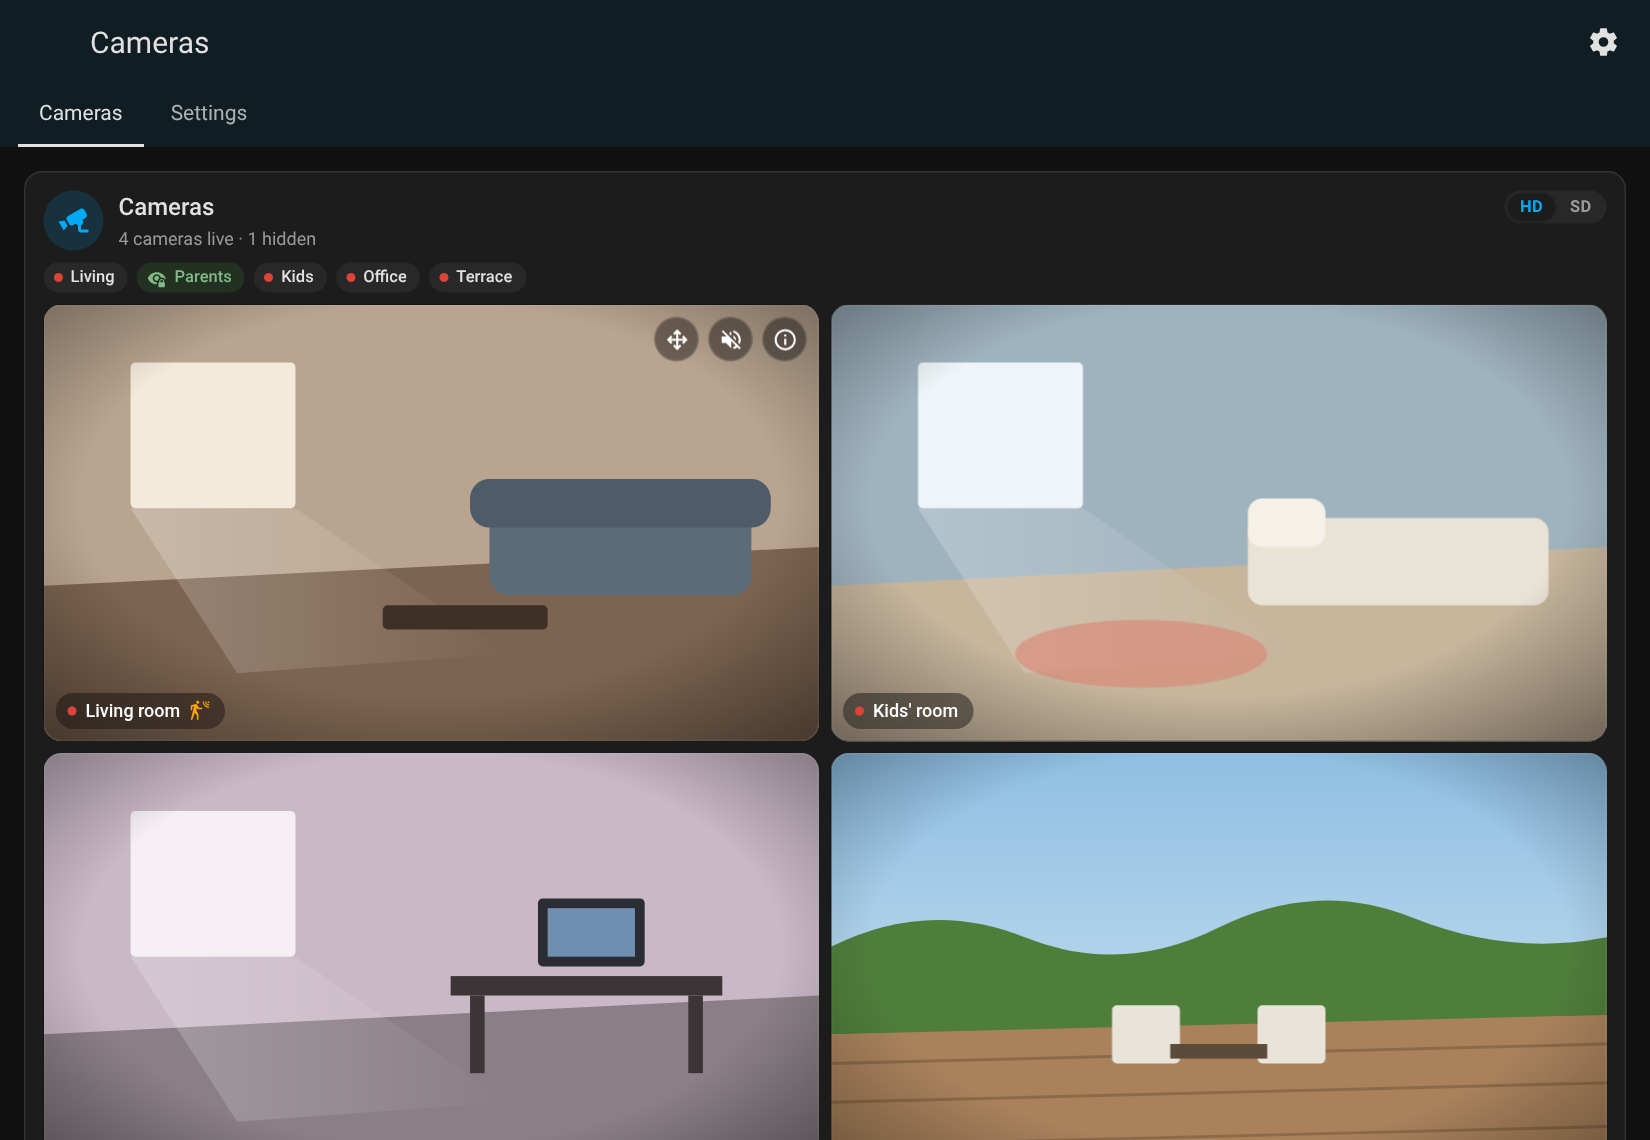
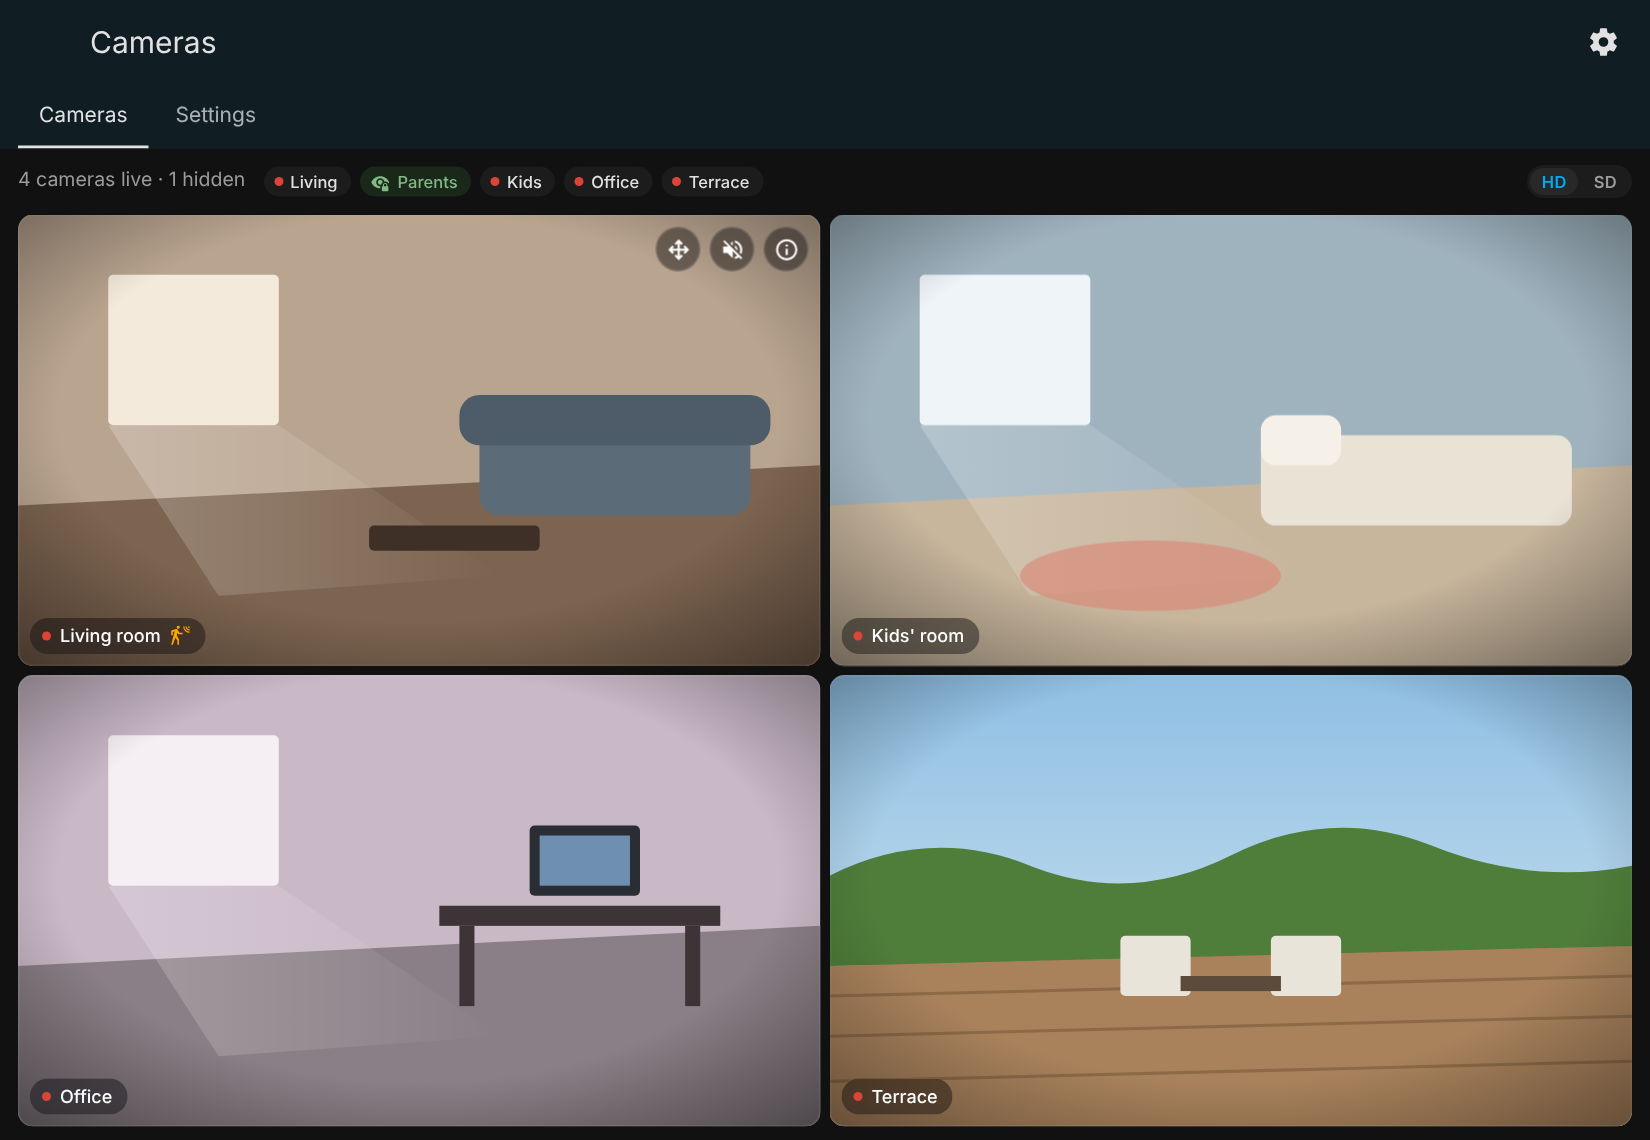
feat: video wall in the Cameras panel, without a card around the cameras
The panel shows the cameras as a video wall: no card, a thin status bar
(cameras live and hidden, privacy badges, HD / SD) over a grid edge to edge
with as many columns as fit (tiles of at least 360 px, one per row on a phone).
The same look is the card's new `layout: wall` option; `columns` still wins
when set. Version 4.2.0.

Claude-Session: https://claude.ai/code/session_01F4sAn2PzDGut7LyQ9PfdFm

diff --git a/custom_components/home_camera/frontend/home-camera-card.js b/custom_components/home_camera/frontend/home-camera-card.js
@@ -1,4 +1,4 @@
-const HOME_CAMERA_CARD_VERSION = '4.1.0';
+const HOME_CAMERA_CARD_VERSION = '4.2.0';
 
 // ── i18n ─────────────────────────────────────────────────────────────────────
 const HcI18n = {
@@ -1555,6 +1555,11 @@ class HomeCameraCard extends HTMLElement {
     if (!config) throw new Error('Invalid configuration');
     if (config.cameras && !Array.isArray(config.cameras)) throw new Error('cameras must be a list');
     this._config = Object.assign({}, HC_DEFAULTS, config);
+    // Video wall (the Cameras panel, or `layout: wall` on a dashboard): no card around the grid, a status bar
+    // instead of the header, and as many columns as fit unless `columns` is set.
+    this._wall = config.layout === 'wall' && !this.hasAttribute?.('mini');
+    this._columnsSet = config.columns != null;
+    this.toggleAttribute?.('wall', this._wall);
     if (!this.shadowRoot) {
       this.attachShadow({ mode: 'open' });
       this.shadowRoot.innerHTML = `${this._styles()}<ha-card><div class="head"></div><div class="view"></div></ha-card>`;
@@ -1980,7 +1985,7 @@ class HomeCameraCard extends HTMLElement {
     let right = visible.length ? quality : '';
     let side = '';
     let sub = summary ? `<div class="summary">${hcEsc(summary)}</div>` : '';
-    if (single && badges) {
+    if (single && badges && !this._wall) {
       // Icon only, the size of the header icon; the text stays in the tooltip and for screen readers.
       // Same marks as the badges: the red live dot while the camera films, the lock while it is hidden.
       const cam = cams[0];
@@ -2004,18 +2009,19 @@ class HomeCameraCard extends HTMLElement {
       sub = status ? `<div class="summary">${hcEsc(status)}</div>` : '';
     }
 
-    const level = cams.length && !visible.length ? 'off' : 'on';
     const head = this.shadowRoot.querySelector('.head');
     // Replacing the header drops the keyboard focus (HD/SD toggled, a badge tapped): remember which
     // control held it, and give it back to its replacement.
     const focused = this.shadowRoot.activeElement;
     const kind = head.contains(focused) && (focused.dataset?.quality ? 'quality' : focused.dataset?.toggle ? 'toggle' : null);
-    head.innerHTML =
-      `<div class="header"><div class="hicon ${level}"><ha-icon icon="${hcEsc(c.icon || 'mdi:cctv')}"></ha-icon></div>` +
-      `<div class="titles"><div class="name-row"><div class="name">${hcEsc(title)}</div><div class="chips">${right}</div></div>` +
-      sub +
-      `</div>${side}${this._zoomButton()}</div>` +
-      (badges ? `<div class="chips badges">${badges}</div>` : '');
+    if (this._wall) {
+      // Video wall: one thin bar, the status on the left, the privacy badges, HD / SD on the right.
+      head.innerHTML =
+        `<div class="wallbar">${summary ? `<div class="summary">${hcEsc(summary)}</div>` : ''}` +
+        `<div class="chips badges">${badges}</div><div class="chips">${right}</div></div>`;
+    } else {
+      this._renderHeader(head, { title, right, side, sub, badges, level: cams.length && !visible.length ? 'off' : 'on' });
+    }
     if (kind) {
       for (const el of head.querySelectorAll(`[data-${kind}]`)) {
         if (el.dataset[kind] !== focused.dataset[kind]) continue;
@@ -2023,6 +2029,17 @@ class HomeCameraCard extends HTMLElement {
         break;
       }
     }
+  }
+
+  // The card's own header: icon, title with HD / SD, status line, then the privacy badges.
+  _renderHeader(head, { title, right, side, sub, badges, level }) {
+    const c = this._config;
+    head.innerHTML =
+      `<div class="header"><div class="hicon ${level}"><ha-icon icon="${hcEsc(c.icon || 'mdi:cctv')}"></ha-icon></div>` +
+      `<div class="titles"><div class="name-row"><div class="name">${hcEsc(title)}</div><div class="chips">${right}</div></div>` +
+      sub +
+      `</div>${side}${this._zoomButton()}</div>` +
+      (badges ? `<div class="chips badges">${badges}</div>` : '');
   }
 
   // The grid of tiles, one per visible camera. Tiles are kept across renders and only added or removed
@@ -2057,7 +2074,11 @@ class HomeCameraCard extends HTMLElement {
       grid.className = 'grid';
       view.replaceChildren(grid);
     }
-    grid.style.gridTemplateColumns = `repeat(${hcColumns(this._config, visible.length)}, minmax(0, 1fr))`;
+    // The wall fits as many tiles of at least 360 px as the width takes (one per row on a phone)
+    grid.style.gridTemplateColumns =
+      this._wall && !this._columnsSet
+        ? 'repeat(auto-fit, minmax(min(100%, 360px), 1fr))'
+        : `repeat(${hcColumns(this._config, visible.length)}, minmax(0, 1fr))`;
     grid.style.setProperty('--hc-ratio', String(hcRatio(this._config.aspect_ratio)));
 
     const keys = new Set(visible.map((cam) => cam.key));
@@ -2432,6 +2453,16 @@ class HomeCameraCard extends HTMLElement {
       // The one moving thing: the live dot on the images breathes, like a recording light.
       '@keyframes hc-live { 50% { opacity: 0.35; } }' +
       '.view:empty { display: none; }' +
+      // Video wall: no card, the grid edge to edge under a thin status bar.
+      ':host([wall]) ha-card { background: none; border: none; box-shadow: none; border-radius: 0; padding: 0; gap: 8px; overflow: visible; }' +
+      '.wallbar { display: flex; align-items: center; flex-wrap: wrap; gap: 6px 12px; min-height: 28px; }' +
+      '.wallbar .summary { margin: 0; font-size: 13px; }' +
+      '.wallbar .chips.badges { margin: 0; flex: 1 1 auto; }' +
+      // On the page background, the badges and the HD / SD track take the card colour to stand out from it
+      ':host([wall]) :is(.chip:not(.private), .seg) { background: var(--card-background-color, #fff); }' +
+      ':host([wall]) .opt.on { background: var(--secondary-background-color, rgba(128,128,128,0.12)); box-shadow: none; }' +
+      ':host([wall]) .grid { gap: 6px; }' +
+      ':host([wall]) .tile { border-radius: 10px; }' +
       '.grid { display: grid; gap: 8px; }' +
       // container-type: size gives the tile no width of its own: in a parent sized by its content (inline-block,
       // an auto grid column) the card would fold to its padding. contain-intrinsic-width stands in for the image

diff --git a/custom_components/home_camera/frontend/home-camera-panel.js b/custom_components/home_camera/frontend/home-camera-panel.js
@@ -1,9 +1,9 @@
 /*
  * Home Camera sidebar panel — every home camera on one page, for every user (not only administrators).
  *
- * Two tabs under the toolbar, as in Smart Comfort: Cameras (the home camera card full page, as the cameras
- * dashboard showed it) and, for administrators only, Settings (the sidebar title, the cameras of Home Assistant
- * not shown yet, from home_camera/discover, and the card's own visual editor, with a copy of a camera card found
+ * Two tabs under the toolbar, as in Smart Comfort: Cameras (the cameras full page, as a video wall edge to edge,
+ * with no card around them) and, for administrators only, Settings (the sidebar title, the cameras of Home
+ * Assistant not shown yet, from home_camera/discover, and the card's own visual editor, with a copy of a camera card found
  * on a dashboard). The settings come from home_camera/subscribe,
  * open to every user and pushed again whenever they change; home_camera/update_settings (administrators)
  * saves them. The tab is in the address (/cameras/settings). The panel draws its toolbar, tabs and forms itself;
@@ -11,7 +11,7 @@
  *
  * https://github.com/juju35/ha-camera
  */
-var HOME_CAMERA_PANEL_VERSION = '4.1.0';
+var HOME_CAMERA_PANEL_VERSION = '4.2.0';
 
 var HomeCameraPanelI18n = {
   en: {
@@ -691,8 +691,8 @@ class HomeCameraPanel extends HTMLElement {
     .tab:hover, .tab:focus-visible { opacity:1; outline:none; }
     .tab.active { opacity:1; border-bottom-color:var(--app-header-text-color, #fff); }
     main { margin:0 auto; padding:16px; box-sizing:border-box; }
-    /* The camera grid as wide as the cameras dashboard's section, the settings at reading width */
-    main.cameras { max-width:1400px; }
+    /* The cameras as a video wall, edge to edge; the settings at reading width */
+    main.cameras { padding:8px 12px 12px; }
     main.settings { max-width:900px; }
     section[hidden] { display:none; }
     .column { display:flex; flex-direction:column; gap:12px; min-width:0; }
@@ -985,7 +985,8 @@ class HomeCameraPanel extends HTMLElement {
       this._card = document.createElement(HCP_CARD);
     }
     try {
-      this._card.setConfig(Object.assign({ type: `custom:${HCP_CARD}` }, card));
+      // Always the video wall here: no card around the cameras (the configuration keeps its own layout for dashboards)
+      this._card.setConfig(Object.assign({ type: `custom:${HCP_CARD}` }, card, { layout: 'wall' }));
     } catch (err) {
       note(`<span>${hcpEsc(String(err?.message || err))}</span>`, true);
       return;

diff --git a/custom_components/home_camera/const.py b/custom_components/home_camera/const.py
@@ -1,7 +1,7 @@
 """Constants for the Home Camera integration."""
 
 DOMAIN = "home_camera"
-VERSION = "4.1.0"
+VERSION = "4.2.0"
 
 # Files served by the integration (their own base, so the panel's route never shadows them)
 URL_BASE = f"/{DOMAIN}"

diff --git a/README.md b/README.md
@@ -36,7 +36,7 @@ List the cameras, the cards find their privacy switch, SD stream and PTZ buttons
 
 ### Cameras panel
 
-- **Cameras** in the sidebar for **every user** — family members without administrator rights included: the camera grid full page, with everything the card does (live streams, privacy badges, HD / SD, PTZ, fullscreen)
+- **Cameras** in the sidebar for **every user** — family members without administrator rights included: a **video wall** edge to edge, with no card around it — a thin status bar (cameras live and hidden, privacy badges, HD / SD) over as many columns as the screen takes — and everything the card does (live streams, privacy badges, HD / SD, PTZ, fullscreen)
 - **Settings** tab, for administrators only: the cameras and their options with the card's own visual editor, and the sidebar title (left empty: *Cameras* in the server's language)
 - **Camera discovery**: a new entry starts with every camera of Home Assistant, and Settings lists the ones not shown yet, to **Add** one by one or **Add all**; a Tapo camera's two entities (`*_hd_stream`, `*_sd_stream`) count as one camera, whose SD stream the HD / SD switch picks
 - **Copy from a dashboard**: takes the first camera card found on your dashboards, to move a cameras dashboard to the panel in one click
@@ -166,6 +166,7 @@ The mini card takes the same options as the full card, plus `zoom`. Its compact 
 | `quality_entity` | ❌ | — | `input_select` (or `select`) holding the quality; without it the card keeps its own choice in the browser |
 | `hd_option` | ❌ | `HD` | Option of `quality_entity` meaning HD |
 | `sd_option` | ❌ | `SD` | Option of `quality_entity` meaning SD |
+| `layout` | ❌ | — | `wall`: the video wall of the Cameras panel — no card around the grid, a status bar instead of the header, as many columns as fit (unless `columns` is set) |
 | `columns` | ❌ | `2` | Columns of the grid |
 | `aspect_ratio` | ❌ | `16:9` | Shape of the tiles (`16:9`, `4:3`, `1:1`…); the image fills the tile |
 | `show_summary` | ❌ | `true` | Summary line under the title |

diff --git a/CHANGELOG.md b/CHANGELOG.md
@@ -1,5 +1,11 @@
 # Changelog
 
+## 4.2.0 - 2026-11-10
+
+### What's new
+- **Video wall in the Cameras panel**: no card around the cameras any more. A thin status bar (cameras live and hidden, privacy badges, HD / SD) sits over a grid edge to edge, with as many columns as the width takes (tiles of at least 360 px, one per row on a phone).
+- New card option `layout: wall`, the same look on a dashboard (a panel view, for instance); `columns` still sets the number of columns when given.
+
 ## 4.1.0 - 2026-11-10
 
 ### What's new
